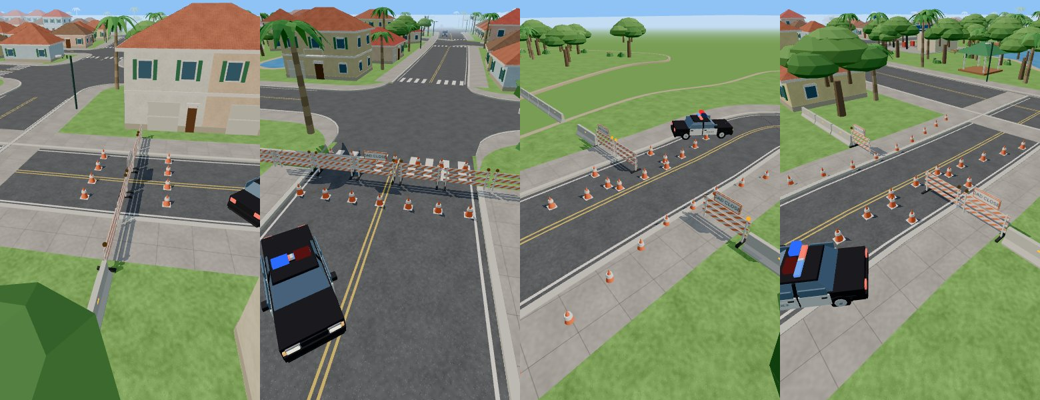
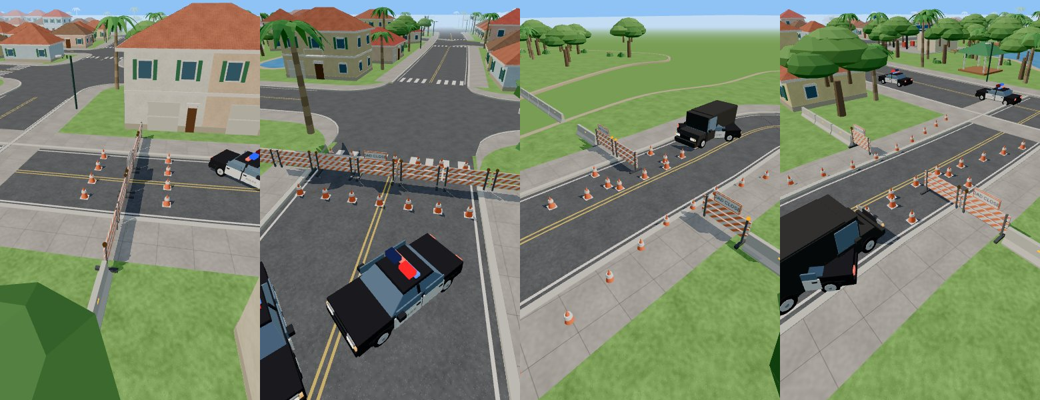
city-clone: roadblocks: metal-legged barricades with thicker wooden boards, two angled cruisers behind each
Claude-Session: https://claude.ai/code/session_01QbDoFPGu5z24oXZd8dk3Jx

diff --git a/city-clone/viewer/dave.js b/city-clone/viewer/dave.js
@@ -218,18 +218,18 @@ export function createDave(D) {
   const onScreen = (x, z) => { sph.center.set(x, 1, z); return frustum.intersectsSphere(sph); };
 
   // ---------- roadblocks: real ones. Striped "ROAD CLOSED" barricades (Type III, flashing amber lamps) across the road and sidewalks, cones in front,
-  // concrete jersey barriers over the verges, and one cruiser parked at an angle behind with its lights going. The gap block keeps a car-wide gap lined with cones.
+  // concrete jersey barriers over the verges, and two cruisers parked at angles behind with their lights going. The gap block keeps a car-wide gap lined with cones.
   // Everything but the cruisers is instanced (a handful of draw calls for all three blocks).
   const RB = { on: false, parts: [], blockers: [], shut: [], closed: [], lamps: [], bars: [] };
   const texOf = (w, h, draw) => { const c = document.createElement('canvas'); c.width = w; c.height = h; draw(c.getContext('2d'), w, h); const t = new THREE.CanvasTexture(c); t.colorSpace = THREE.SRGBColorSpace; t.anisotropy = 4; return t; };
   const stripeTex = texOf(256, 32, (g, w, h) => { g.fillStyle = '#f6f6f2'; g.fillRect(0, 0, w, h); g.fillStyle = '#ff6a10'; for (let x = -h; x < w + h; x += 40) { g.beginPath(); g.moveTo(x, h); g.lineTo(x + 20, h); g.lineTo(x + 20 + h, 0); g.lineTo(x + h, 0); g.fill(); } });
   const signTex = texOf(256, 96, (g, w, h) => { g.fillStyle = '#ff6a10'; g.fillRect(0, 0, w, h); g.fillStyle = '#fafafa'; g.fillRect(8, 8, w - 16, h - 16); g.fillStyle = '#111'; g.font = '700 46px system-ui, sans-serif'; g.textAlign = 'center'; g.textBaseline = 'middle'; g.fillText('ROAD CLOSED', w / 2, h / 2 + 2); });
-  const MAT = { board: new THREE.MeshLambertMaterial({ map: stripeTex }), leg: new THREE.MeshLambertMaterial({ color: 0xe9e9e4 }), foot: new THREE.MeshLambertMaterial({ color: 0x2a2a2a }),
+  const MAT = { board: new THREE.MeshLambertMaterial({ map: stripeTex }), leg: new THREE.MeshStandardMaterial({ color: 0x8d9298, metalness: .7, roughness: .4 }), foot: new THREE.MeshStandardMaterial({ color: 0x5a5e63, metalness: .6, roughness: .5 }),
     sign: new THREE.MeshLambertMaterial({ map: signTex }), lamp: new THREE.MeshBasicMaterial({ color: 0xffb020, toneMapped: false }), cone: new THREE.MeshLambertMaterial({ color: 0xff5a10 }),
     band: new THREE.MeshLambertMaterial({ color: 0xf4f4f4 }), conc: new THREE.MeshLambertMaterial({ color: 0xc8c4ba }), refl: new THREE.MeshBasicMaterial({ color: 0xffc23a, toneMapped: false }) };
   const jersey = (() => { const sh = new THREE.Shape(); sh.moveTo(-.3, 0); sh.lineTo(.3, 0); sh.lineTo(.3, .08); sh.lineTo(.14, .3); sh.lineTo(.09, .81); sh.lineTo(-.09, .81); sh.lineTo(-.14, .3); sh.lineTo(-.3, .08); sh.closePath();
     const g = new THREE.ExtrudeGeometry(sh, { depth: 2.9, bevelEnabled: false }); g.translate(0, 0, -1.45); g.rotateY(Math.PI / 2); return g; })();       // length along local x
-  const GEO = { board: new THREE.BoxGeometry(2.4, .2, .04), leg: new THREE.BoxGeometry(.07, 1.35, .07), foot: new THREE.BoxGeometry(.12, .1, .75), sign: new THREE.BoxGeometry(1.3, .48, .03),
+  const GEO = { board: new THREE.BoxGeometry(2.45, .26, .07), leg: new THREE.BoxGeometry(.09, 1.4, .09), foot: new THREE.BoxGeometry(.14, .12, .9), sign: new THREE.BoxGeometry(1.3, .48, .03),
     lamp: new THREE.SphereGeometry(.09, 8, 6), cone: new THREE.ConeGeometry(.2, .72, 10).translate(0, .36, 0), band: new THREE.CylinderGeometry(.115, .145, .12, 10).translate(0, .42, 0),
     base: new THREE.BoxGeometry(.44, .04, .44).translate(0, .02, 0), conc: jersey, refl: new THREE.BoxGeometry(.18, .07, .02) };
   function roadblocks() {
@@ -251,7 +251,7 @@ export function createDave(D) {
       const W = (u, f) => [at[0] + nx * u + dir[0] * f, at[1] + nz * u + dir[1] * f];         // u across the road, f along it (+ = away from the end the block sits at)
       const inGap = (a, b) => B.gap && b > g0 - B.gap / 2 && a < g0 + B.gap / 2;
       const bars = []; for (let u = -span; u < span - .5; u += 2.55) if (!inGap(u, u + 2.4)) bars.push(u + 1.2);
-      for (const c of bars) {                                                        // Type III barricade: two legs with feet, three striped boards, an amber lamp on top
+      for (const c of bars) {                                                        // Type III barricade: metal legs with feet, three striped wooden boards, an amber lamp on top
         const [x, z] = W(c, 0);
         for (const s_ of [-1.05, 1.05]) { const [lx, lz] = W(c + s_, 0); put('leg', lx, .68, lz, thN); put('foot', lx, .05, lz, thN); }
         for (const h of [.5, .85, 1.2]) put('board', x, h, z, thN);
@@ -266,10 +266,12 @@ export function createDave(D) {
       for (const [from, sgn] of [[hi, 1], [lo, -1]]) for (let u = from; Math.abs(u) < wing; u += sgn * 3) {    // jersey barriers over the verges (skipping any inside a building or tree)
         const c = u + sgn * 1.5, [x, z] = W(c, 0); if (!free(x, z)) continue; put('conc', x, 0, z, thN); for (const f of [-.12, .12]) { const [rx, rz] = W(c, f); put('refl', rx, .62, rz, thN); } solid(x, z, thN + Math.PI / 2, [3, .62]);
       }
-      { const u = B.gap ? -g0 * .8 - 1.5 : e.hw * .35, [x, z] = W(u, 7.5), car = makeCar('police', '#f4f4f4'), th = Math.atan2(-dir[0], -dir[1]) + (B.gap ? -.6 : .7);   // the cruiser behind, angled across its lane
+      for (const [u, f, turn] of (B.gap ? [[-e.hw * .6, 7.5, -.6], [e.hw * .2 + 3, 11, .5]] : [[-e.hw * .35, 7, -.7], [e.hw * .45, 9.5, .8]])) {    // two cruisers behind, angled across their lanes
+        const [x, z] = W(u, f), car = makeCar('police', '#f4f4f4'), th = Math.atan2(-dir[0], -dir[1]) + turn;
         placeOnGround(car.group, x, z, th); solid(x, z, th, car.dims);
         const bar = [0, 1].map(j => { const b_ = new THREE.Mesh(new THREE.BoxGeometry(.5, .18, .3), new THREE.MeshBasicMaterial({ color: j ? 0x2b6bff : 0xff2b2b, toneMapped: false })); b_.position.set(j ? .35 : -.35, car.dims[3] || 1.75, 0); car.group.add(b_); return b_; });
-        RB.bars.push(bar); RB.parts.push({ obj: car.group, cx: x, cz: z }); }
+        RB.bars.push(bar); RB.parts.push({ obj: car.group, cx: x, cz: z });
+      }
       RB.blockers.push({ x: at[0], z: at[1], vx: 0, vz: 0, L: 1.5, W: 2 * span });
     }
     for (const k in I) { if (!I[k].length) continue; const im = new THREE.InstancedMesh(GEO[k], k === 'lamp' ? MAT.lamp.clone() : MAT[k], I[k].length); I[k].forEach((m, i) => im.setMatrixAt(i, m)); im.instanceMatrix.needsUpdate = true; im.computeBoundingSphere();

diff --git a/city-clone/NOTES.md b/city-clone/NOTES.md
@@ -30,7 +30,7 @@ Tune panel for the car handling. Controls are touch (stick/pads) with keyboard f
   - Bug fixed: a rocket reaching your car was stopped by the car-vs-world push at your bumper and counted as a wall crash (no damage). Hits are now checked first (reach = 1.7 + half your length + .9), cost health scaled by closing speed, and shove/spin you (`DENV.kick`).
   - Rockets keep road grip x2.2 while following the road, drift physics only when coming straight at you, no braking when lined up. Early ones spawn on your way to Dave's (head-on). Ordinary cops 1.25x faster in the scripted chase (police.js, `W.force`).
   - Headless kinematic driver (no dodging) on the long route: fast run 3 hits, slow run 6 hits (health to the 30 floor). Half the rockets still crash (corners, traffic queued at the roadblocks, the gap) — on purpose.
-- **Round 30d (user: "make actual barricades, not just police cars"):** each roadblock is now Type III "ROAD CLOSED" barricades (striped boards, legs, flashing amber lamps) across road + sidewalks, cones both sides (a cone funnel into the gap block), concrete jersey barriers with reflectors over the verges, and one cruiser parked at an angle behind with its light bar flashing. All parts except the cruisers are InstancedMeshes (one per part type for all three blocks). `art-review/round30/barricades.png`.
+- **Round 30d (user: "make actual barricades, not just police cars"):** each roadblock is now Type III "ROAD CLOSED" barricades (striped boards, legs, flashing amber lamps) across road + sidewalks, cones both sides (a cone funnel into the gap block), concrete jersey barriers with reflectors over the verges, and two cruisers parked at angles behind with light bars flashing (metal legs, thicker wooden boards). All parts except the cruisers are InstancedMeshes (one per part type for all three blocks). `art-review/round30/barricades.png`.
 - **Playable:** Marc (white Jeep, strongest ram), Aaron (black Tesla, fast), Chris (green motorcycle, yellow shirt). Portrait switch locked during the mission.
 - **Dev extras** only with `?dev=1`. `?nomission` skips the mission, `?notitle` skips the title (then the mission does not start by itself; call `__city.missions.start()`).
 - **Backlog the user asked to keep:** see "BACKLOG the user asked me not to forget". User prefers short replies with before/after images.
